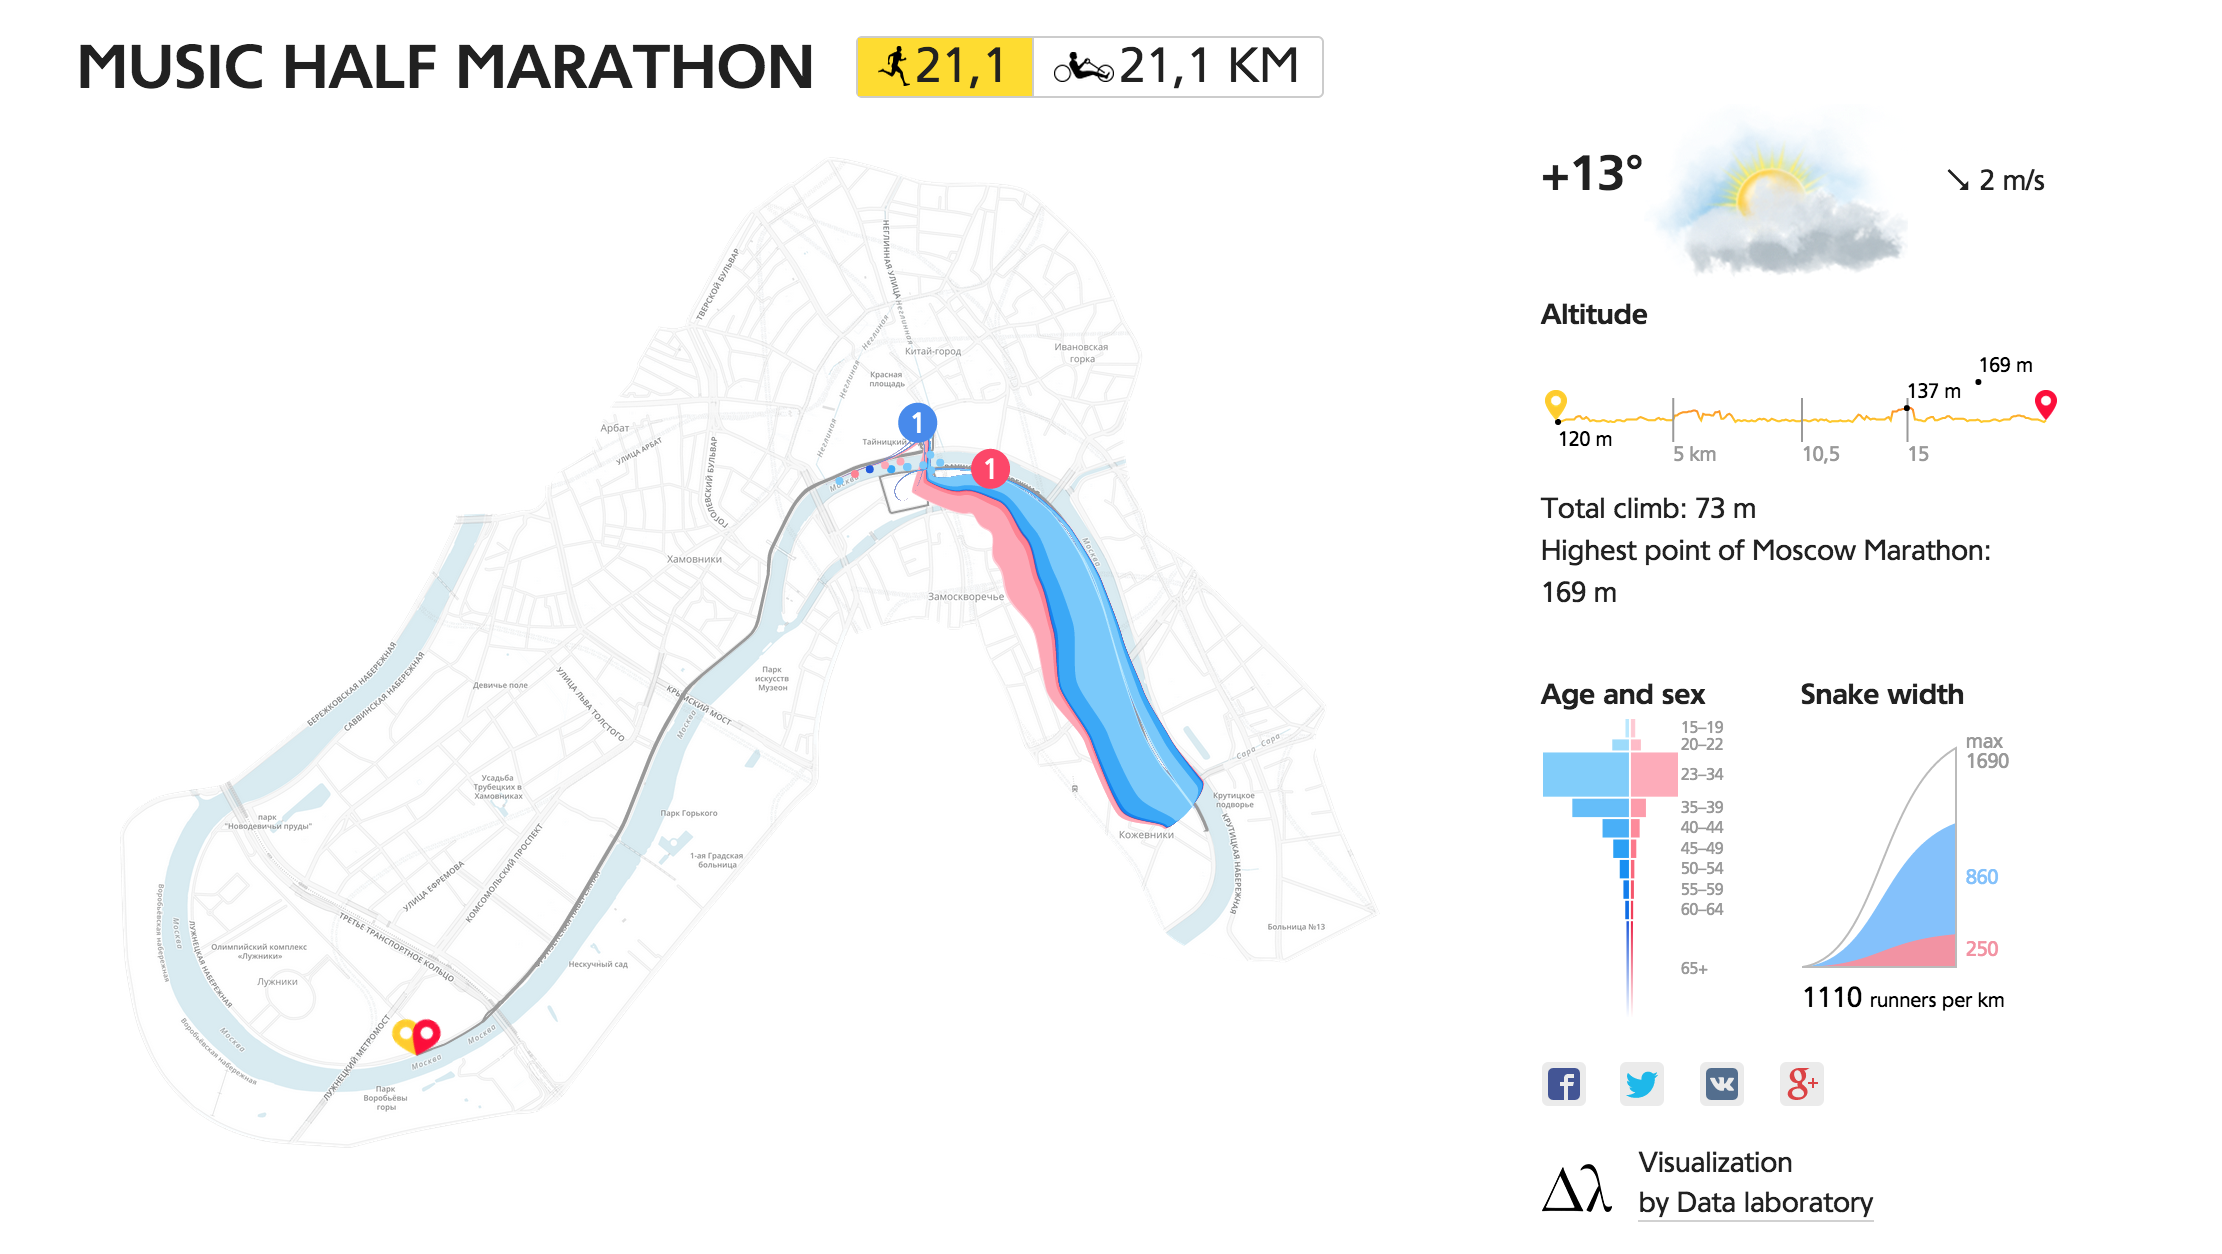
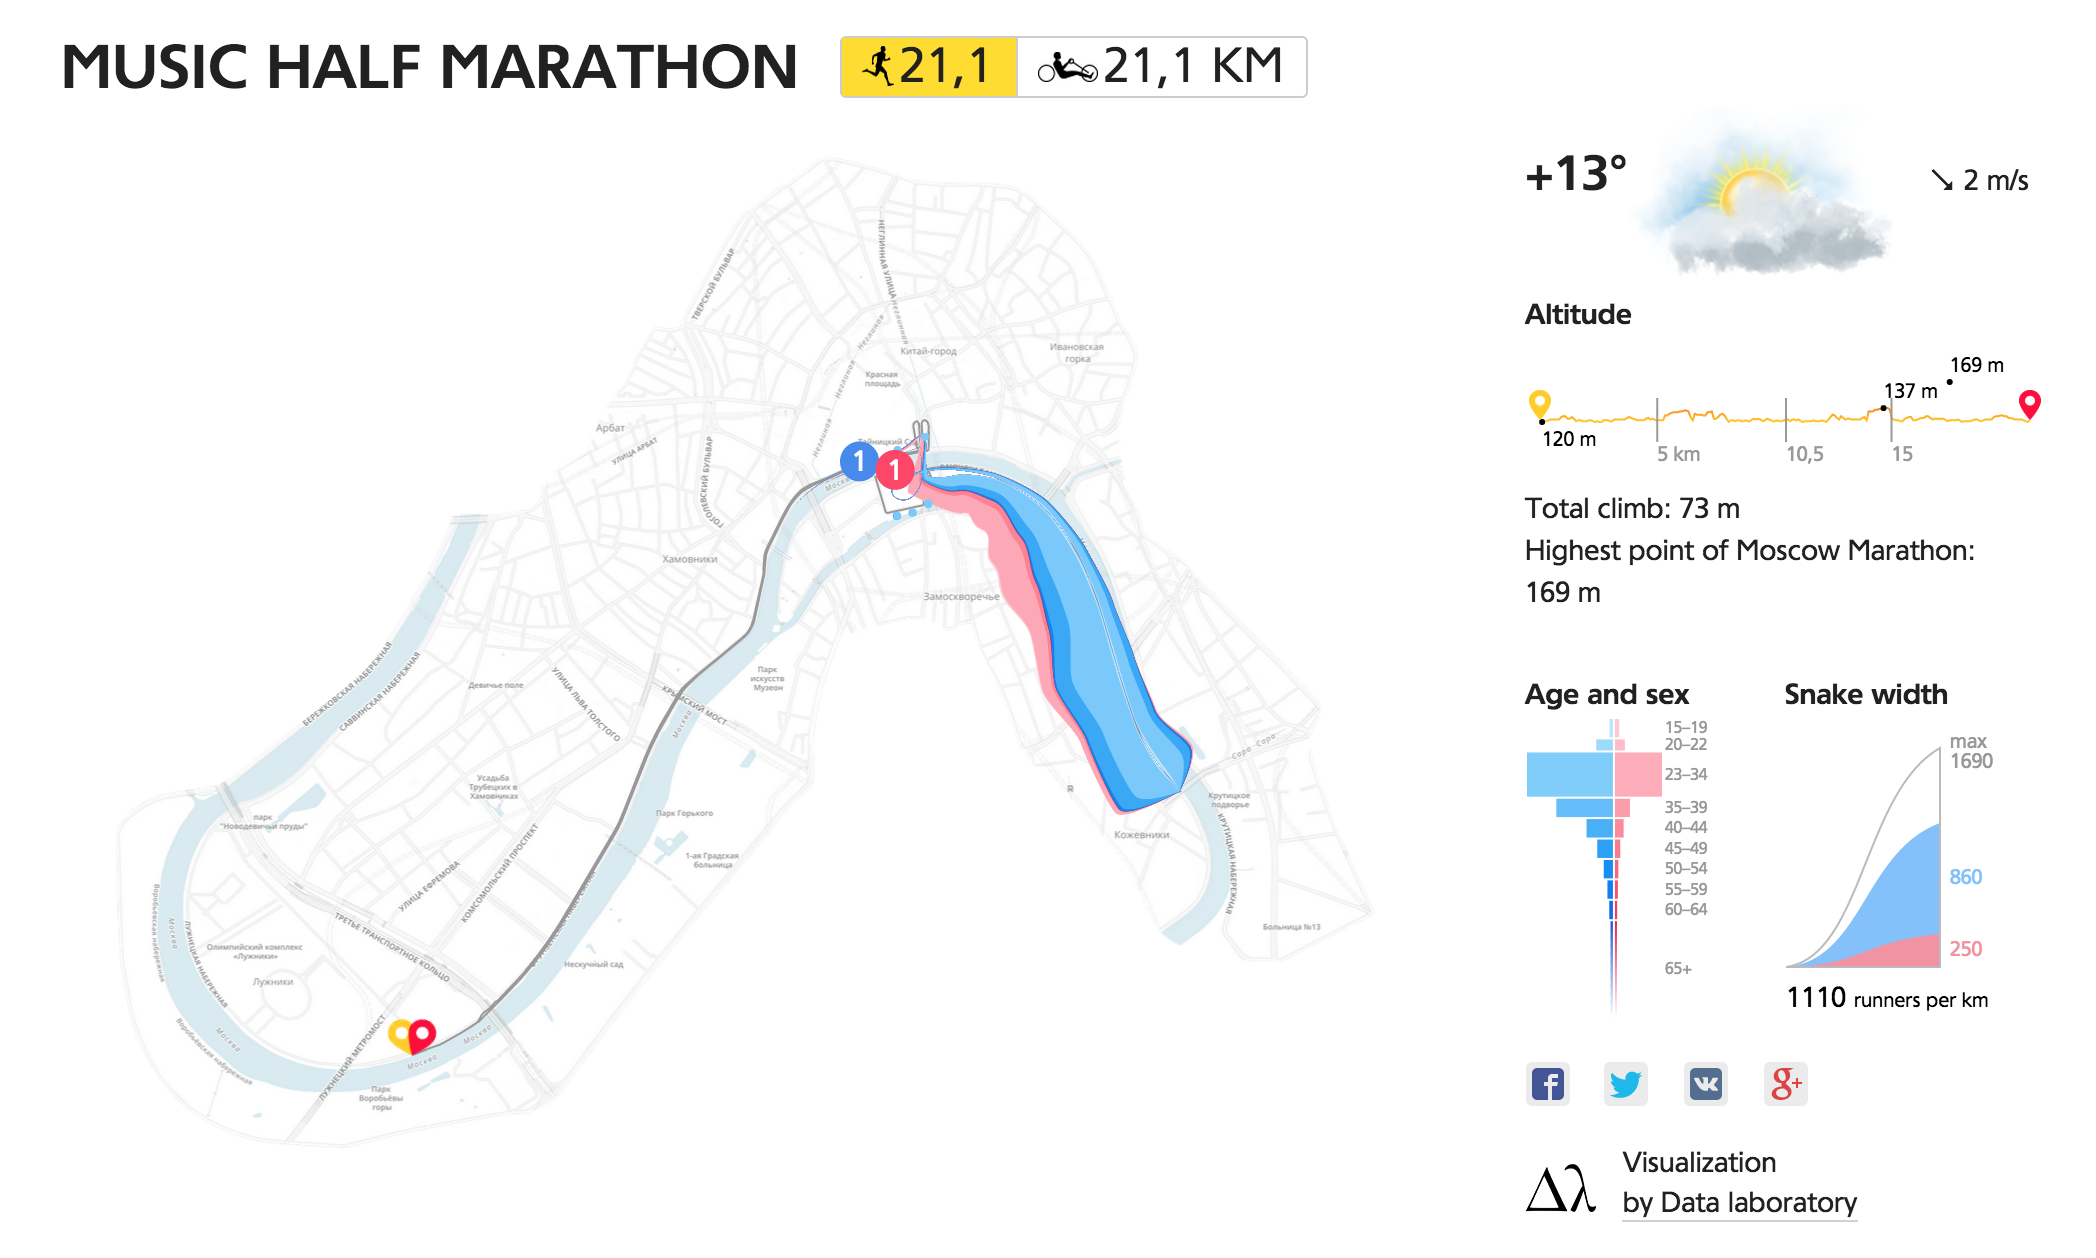
update track

diff --git a/src/js/directives/mapContainer.js b/src/js/directives/mapContainer.js
@@ -18,13 +18,13 @@ angular.module('marathon').directive('mapContainer', function ($rootScope, mapHe
                 '21km': {
                     width: 635,
                     height: 500,
-                    x: 21,
+                    x: 27,
                     y: 97
                 },
                 'hb': {
                     width: 635,
                     height: 500,
-                    x: 21,
+                    x: 27,
                     y: 97
                 }//todo: в отдельный json
             };

diff --git a/src/js/services/mapHelper.js b/src/js/services/mapHelper.js
@@ -225,7 +225,7 @@ angular.module('marathon').factory('mapHelper', function (track, genderColors) {
     var getSteps = function (step, px_distance) {
         var pieces = d3.range(0, px_distance, step);
         pieces.push(px_distance);
-        var customPiece = 10300 / track.getTrackLength() * track.getTotalLength();
+        var customPiece = 9980 / track.getTrackLength() * track.getTotalLength();
         pieces.push(customPiece, customPiece);
         pieces.sort(function (a, b) {
             return a - b
